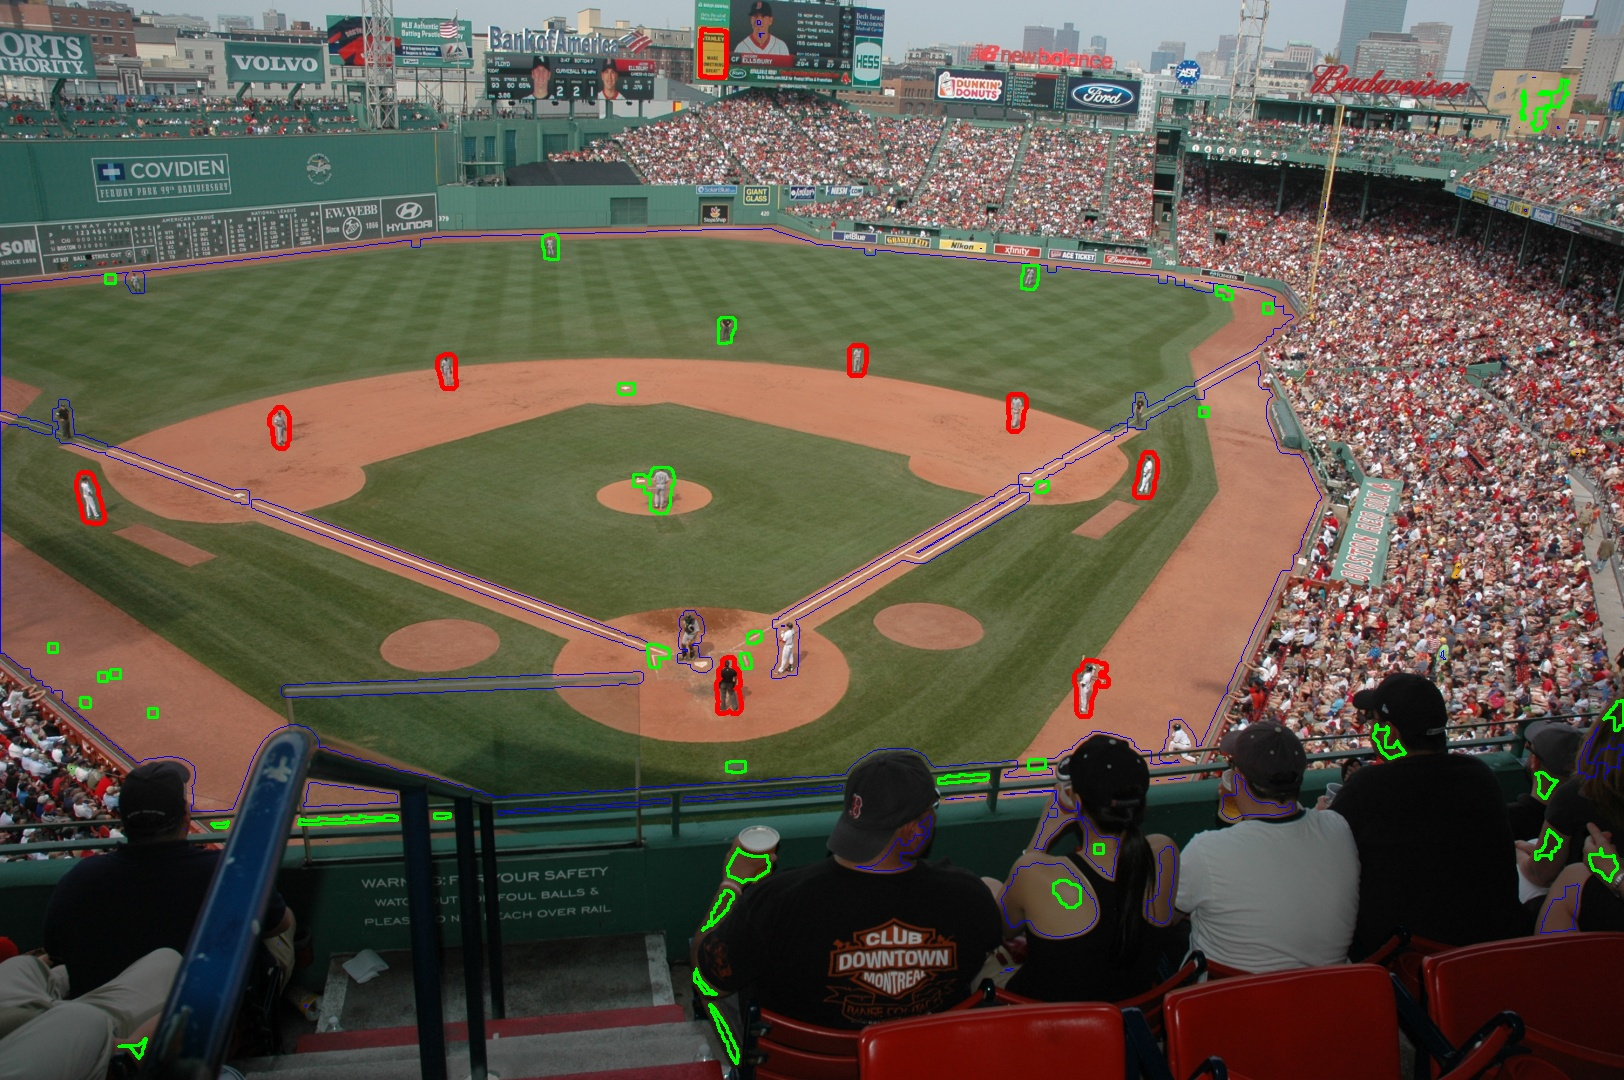
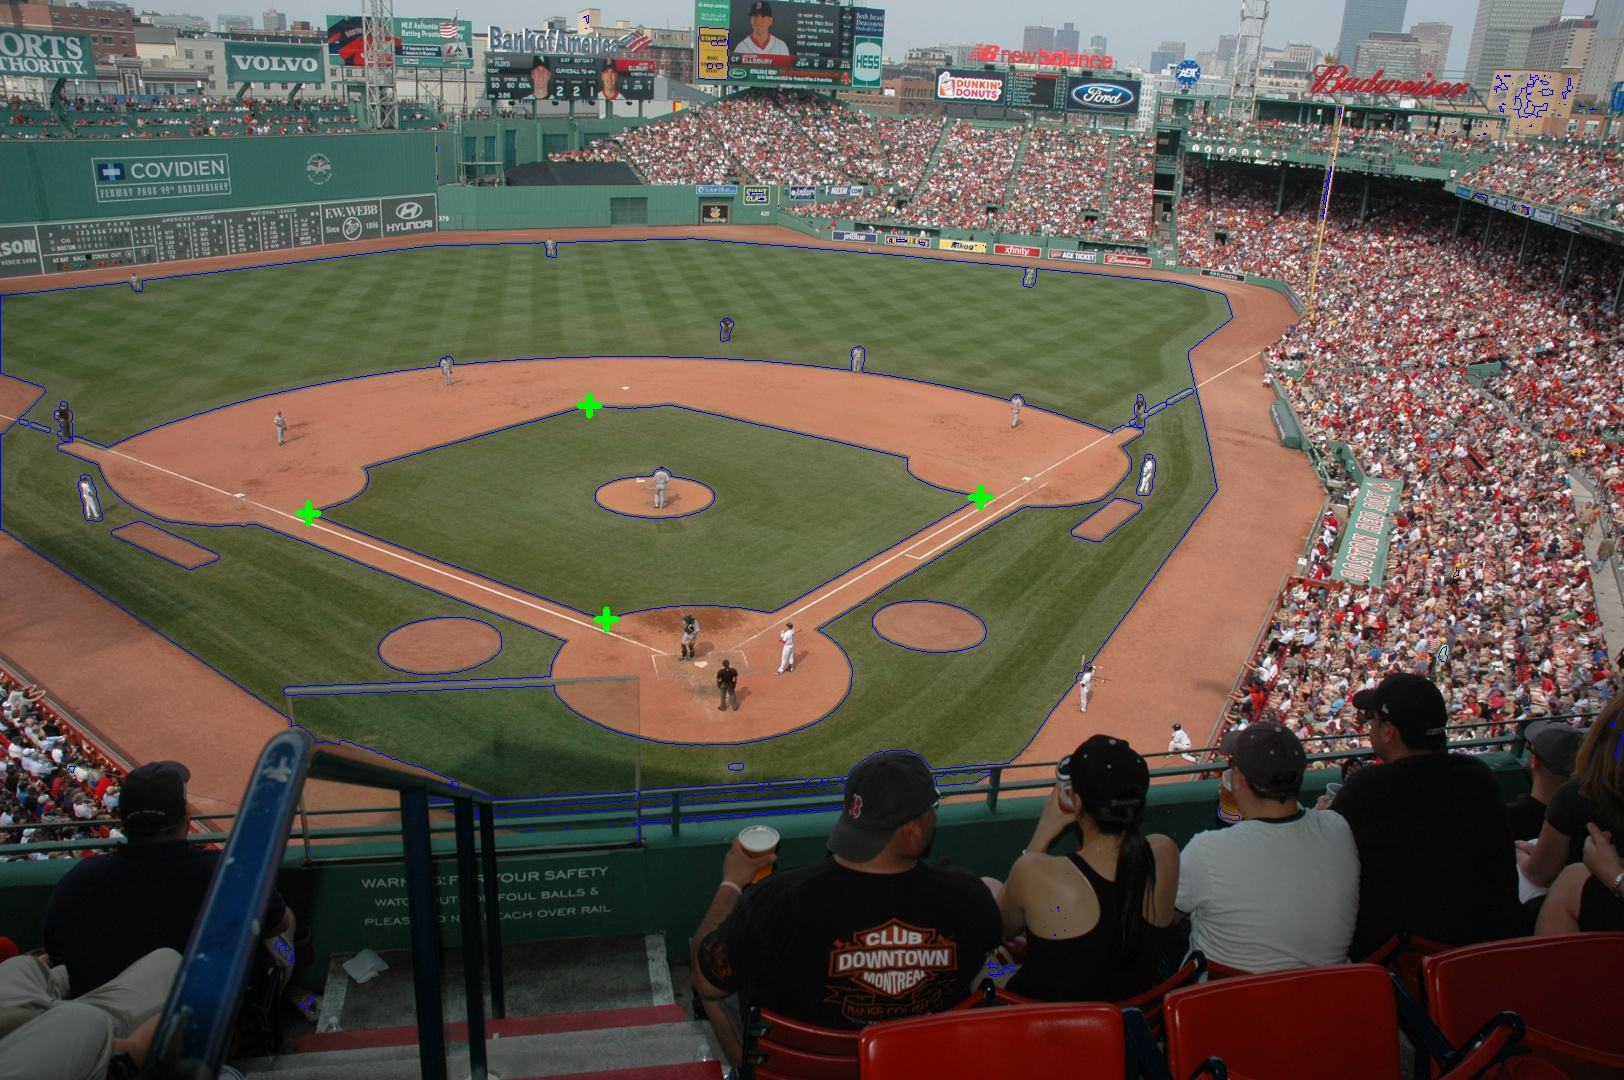
infield final sorting needs work, but it now can find preliminary base locations

diff --git a/TestPersonDetection/personDetectionTesting.py b/TestPersonDetection/personDetectionTesting.py
@@ -19,12 +19,15 @@ class PlayerFinder(object):
         self.upper_dark_green = numpy.array((72, 255, 242), dtype=numpy.uint8)"""
 
         # pixel area of the bounding rectangle - just used to remove stupidly small regions
-        self.contour_min_area = 80    # TODO MUST change these numbers based on the camera resolution that we choose for the iphone's camera!!
+        self.contour_min_area = 300    # TODO MUST change these numbers based on the camera resolution that we choose for the iphone's camera!!
         self.contour_max_area = 2000
 
-        self.contours = None
-        self.top_contours = None
-        self.found_players = None
+        self.player_contours = None
+        self.top_players = None
+        self.players = None
+
+        self.infield_contours = None
+        self.infield = None
 
         return
 
@@ -58,59 +61,100 @@ class PlayerFinder(object):
         
         #res = cv2.bitwise_and(img,img, mask=mask)
 
-        erosion = cv2.erode(mask, numpy.ones((8,8), numpy.uint8), iterations = 1)
+        cnts = self.get_infield_cnrs(mask_green)
+        #self.get_player_contours(mask)
+ 
+        return image
+    
+    def get_infield_cnrs(self, mask):
+        erosion = cv2.erode(mask, numpy.ones((4,4), numpy.uint8), iterations = 1)
+        _, self.infield_contours, _ = cv2.findContours(erosion, cv2.RETR_TREE, cv2.CHAIN_APPROX_SIMPLE)
 
-        #return erosion
-        
-        #find contours in threshold image     
+        infield_contour_list = self.area_cut(self.infield_contours, 15000, 200000)
+        #self.infield = min(infield_contour_list, key=lambda x:x['area'])['contour']
+        self.infield = [x['contour'] for x in infield_contour_list][0]
+
+        # convexHull
+        hull = cv2.convexHull(self.infield)
+        #print(hull)
+        cnrs = [min(hull, key=lambda x: x[0][0]),
+                max(hull, key=lambda x: x[0][0]),
+                min(hull, key=lambda x: x[0][1]),
+                max(hull, key=lambda x: x[0][1])
+                ]
+        self.infield = cnrs
+
+        """rect = cv2.minAreaRect(self.infield)
+        box = cv2.boxPoints(rect)
+        self.infield = [numpy.int0(box)]"""
+        #print(self.infield)
+
+        return cnrs
+    
+    def get_player_contours(self, mask):
+        erosion = cv2.erode(mask, numpy.ones((7,7), numpy.uint8), iterations = 1)   
         _, self.contours, _ = cv2.findContours(erosion, cv2.RETR_TREE, cv2.CHAIN_APPROX_SIMPLE)
         print("Before: " + str(len(self.contours)))
 
-        contour_list = []
-        for c in self.contours:
-            center, widths = self.contour_center_width(c)
-            area = widths[0] * widths[1]
+        contour_list = self.area_cut(self.contours, self.contour_min_area, self.contour_max_area)
 
-            if area > self.contour_min_area and area < self.contour_max_area:
-                contour_list.append({'contour': c, 'center': center, 'widths': widths, 'area': area})
-        
-        # Sort the list of contours from biggest area to smallest
-        contour_list.sort(key=lambda c: cv2.contourArea(c['contour']), reverse=True)
-
-        self.top_contours = [x['contour'] for x in contour_list]
+        self.top_players = [x['contour'] for x in contour_list]
         
         print("After 1: " + str(len(contour_list)))
 
-        self.found_players = []
+        self.players = self.ratio_H2W_cut(self.top_players, 0.8, 3.0)
 
-        for cnt in contour_list[0:15]:        #[0:11]
-            result_cnt = self.test_candidate_contour(cnt)
-            if result_cnt is not None:
-                self.found_players.append(result_cnt)
-        self.found_players = self.found_players[0:15]
-        print("After 2: " + str(len(self.found_players)) + "\n")
+        print("After 2: " + str(len(self.players)) + "\n")
+
+    """def area_cut(self, cnts, min_area, max_area, min_real_area = -1, max_real_area = -1):
+        contour_list = []
+        for c in cnts:
+            center, widths = self.contour_center_width(c)
+            area = widths[0] * widths[1]
+
+            if (min_real_area == -1 or max_real_area == -1) and area > min_area and area < max_area:
+                contour_list.append({'contour': c, 'center': center, 'widths': widths, 'area': area})
+            elif min_real_area != -1 and max_real_area != -1 and area > min_area and area < max_area and min_real_area > min_area and real_area < max_real_area:
+                contour_list.append({'contour': c, 'center': center, 'widths': widths, 'area': area})
         
-        return image
-    
+        # Sort the list of contours from biggest area to smallest
+        contour_list.sort(key=lambda c: c['widths'][0] * c['widths'][1], reverse=True)
+
+        return contour_list"""
+
+    def area_cut(self, cnts, min_area, max_area):
+        contour_list = []
+        for c in cnts:
+            center, widths = self.contour_center_width(c)
+            area = widths[0] * widths[1]
+
+            if area > min_area and area < max_area:
+                contour_list.append({'contour': c, 'center': center, 'widths': widths, 'area': area})
+            
+        # Sort the list of contours from biggest area to smallest
+        contour_list.sort(key=lambda c: c['widths'][0] * c['widths'][1], reverse=True)
+
+        return contour_list
+
+    def ratio_H2W_cut(self, cnts, min_ratio, max_ratio):
+        contour_list = []
+        for c in cnts:
+            height = contour_entry['widths'][1]
+            width = contour_entry['widths'][0]
+            ratio = height / width
+            #print("ratio: " + str(ratio))
+            #print("w, h: " + str(width) + ", " + str(height))
+            #print("------")
+            if ratio >= min_ratio and ratio <= max_ratio:
+                contour_list.append(c)
+        
+        return contour_list
+
     def contour_center_width(self, contour):
         '''Find boundingRect of contour, but return center and width/height'''
 
         x, y, w, h = cv2.boundingRect(contour)
         return (x + int(w / 2), y + int(h / 2)), (w, h)
-
-    def test_candidate_contour(self, contour_entry):
-        cnt = contour_entry['contour']
-
-        ratio = contour_entry['widths'][1] / contour_entry['widths'][0]
-        print("ratio: " + str(ratio))
-        if ratio < 1.5 or ratio > 2.2:
-            return None
-
-        #ratio = cv2.contourArea(cnt) / contour_entry['area']
-        #if ratio < 0.75 or ratio > 1.0:
-        #    return None
-
-        return cnt
 
     def prepare_output_image(self, input_frame):
         '''Prepare output image for drive station. Draw the found target contour.'''
@@ -119,16 +163,25 @@ class PlayerFinder(object):
 
         # Draw the contour on the image
         #blue
-        if self.contours is not None:
+        if self.player_contours is not None:
             cv2.drawContours(output_frame, self.contours, -1, (255, 0, 0), 1)
 
         #green
-        if self.top_contours is not None:
+        if self.top_players is not None:
             cv2.drawContours(output_frame, self.top_contours, -1, (0, 255, 0), 2)
         
         #red
-        if self.found_players is not None:
+        if self.players is not None:
             cv2.drawContours(output_frame, self.found_players, -1, (0, 0, 255), 3)
+        
+        #blue
+        if self.infield_contours is not None:
+            cv2.drawContours(output_frame, self.infield_contours, -1, (255, 0, 0), 1)
+
+        #red
+        if self.infield is not None:
+            for cnr in self.infield:
+                cv2.drawMarker(output_frame, tuple(cnr[0]), (0, 255, 0), cv2.MARKER_CROSS, 20, 5)
 
         return output_frame
 
@@ -150,7 +203,7 @@ def process_files(processor, input_files, output_dir):
         resized = cv2.resize(bgr_frame, (width, height), interpolation = cv2.INTER_AREA)
         #--------------------------------------------
 
-        _ = processor.process_image(resized)
+        testing_output = processor.process_image(resized)
 
         markup = processor.prepare_output_image(resized)
 
